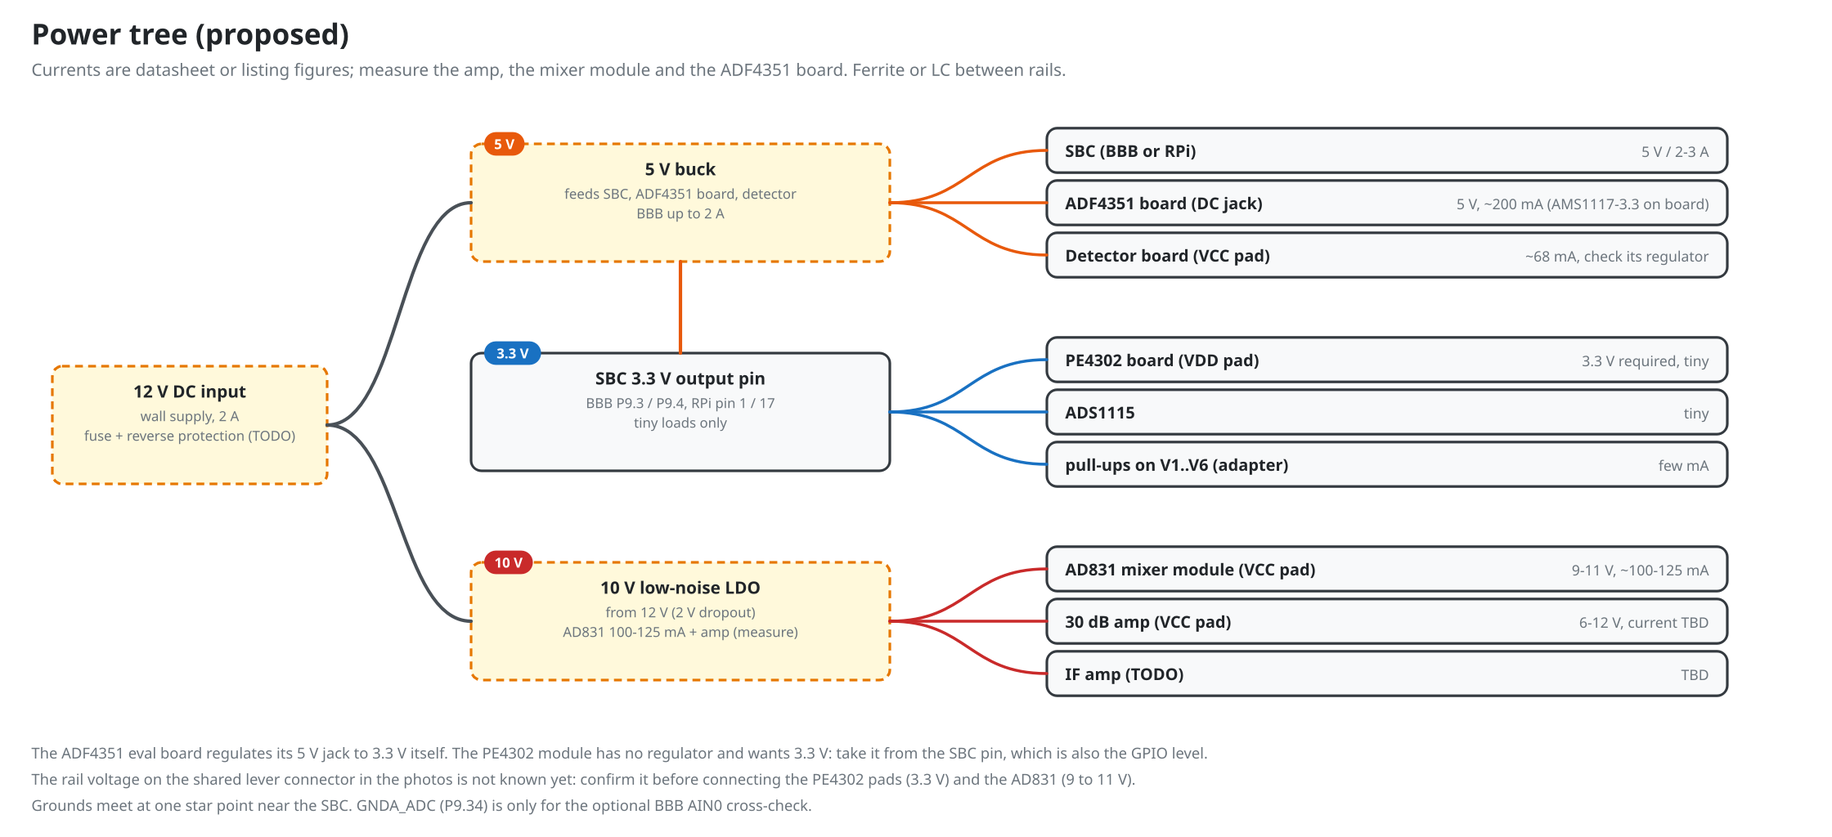
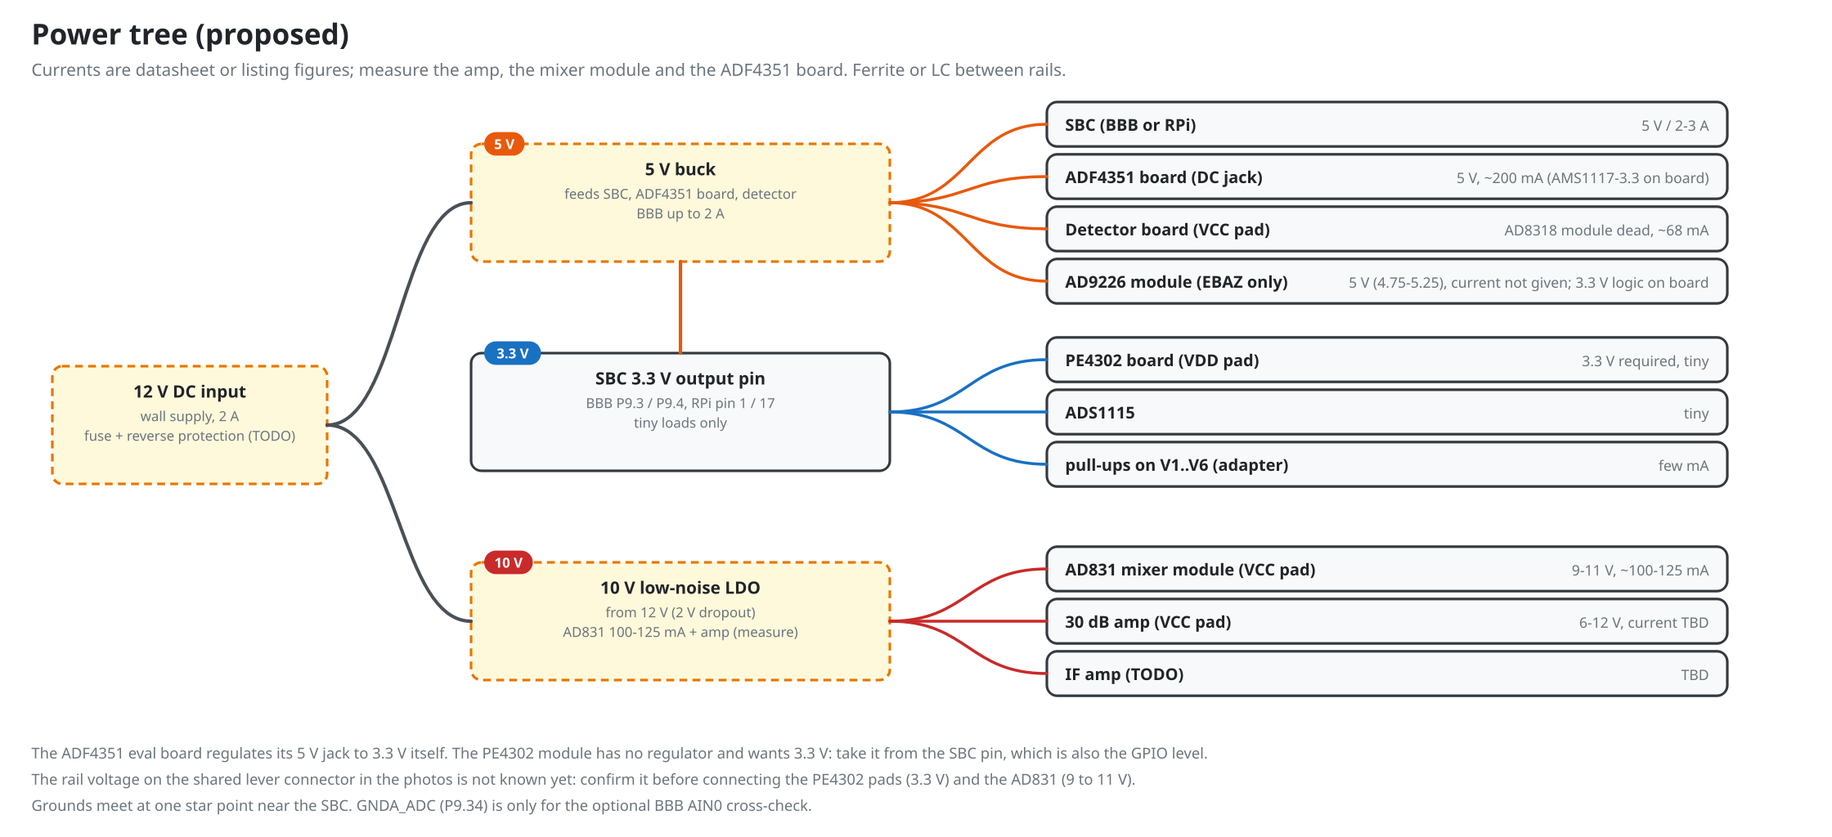
seam: hardware docs and diagrams: digital IF branch (2 x 30 MHz LPF, AD9226 module), detector dead
The detector module is dead and no replacement is bought; on the EBAZ4205 the
IF is digitized by the AD9226 module (50 MS/s) behind two 30 MHz low-pass
modules in series. gen_diagrams.py now draws that branch (rf-chain,
board-hierarchy, power-tree regenerated). hw/hierarchy, todo-parts, wiring,
as-built, README and detector page follow; new hw/boards/ad9226-module.md.
Plan appendix E and the pinmap HDMI proposal are marked superseded.

Changed region(s): [[0.5, 0.0938, 0.9375, 0.375]]

diff --git a/tools/gen_diagrams.py b/tools/gen_diagrams.py
@@ -595,21 +595,23 @@ def hierarchy(path: Path) -> None:
     svg.label(700, 208, "Ethernet / ZeroMQ: PUB 5556 (sweeps + log), REP 5557", color=n)
     cy, ch, cw = 450, 84, 300
     kids = [
-        (110, "PE4302 board", "6-bit attenuator, parallel control\n6 GPIO lines V1..V6", "gpio", "GPIO x6", "v33", "3.3 V"),
-        (550, "ADF4351 board", "LO synthesizer (eval board, 25 MHz osc.)\nSPI + lock-detect GPIO", "spi", "SPI + LD", "v5", "5 V jack"),
-        (990, "Detector board", "log detector, analog out\nvia RC + clamp to the ADS1115", "analog", "analog in", "v5", "5 V"),
+        (30, "PE4302 board", "6-bit attenuator, parallel control\n6 GPIO lines V1..V6", "gpio", "GPIO x6", "v33", "3.3 V"),
+        (365, "ADF4351 board", "LO synthesizer (eval board, 25 MHz osc.)\nSPI + lock-detect GPIO", "spi", "SPI + LD", "v5", "5 V jack"),
+        (700, "Detector board (AD8318: dead)", "log detector, analog out via RC + clamp\nto the ADS1115; not replaced", "analog", "analog in", "v5", "5 V"),
+        (1035, "AD9226 module (EBAZ PL only)", "12 bit ADC, 50 MS/s used, 50 ohm SMA in\n12 data + OTR in, clock out (DATA1)", "gpio", "DATA1 x14", "v5", "5 V"),
     ]
     for x, t, s_, kind, lab, rail, rtxt in kids:
         box(svg, x, cy, cw, ch, t, s_, badge=(rtxt, rail))
         c = PAL[kind][0]
-        wire(svg, (700, 334), (x + cw / 2, cy), c, lab, arrow_end=(kind != "analog"), arrow_start=(kind == "analog"))
+        wire(svg, (700, 334), (x + cw / 2, cy), c, lab, arrow_end=(kind != "analog" and "AD9226" not in t),
+             arrow_start=(kind == "analog" or "AD9226" in t))
     svg.text(24, 568, "ADF4351 board: 5 V on its DC jack, regulated to 3.3 V on the board (AMS1117-3.3). Check the polarity marking next to the jack.",
              size=11, fill=MUTED)
     svg.rect(40, 600, 1320, 160, fill="#f8f9fa", stroke="#adb5bd", sw=1.5, rx=10, dash="2 4")
     svg.text(56, 624, "RF-only boards: no link to the SBC (signal chain in rf-chain.svg)", size=13, weight="bold", fill=MUTED)
     items = [("30 dB amp", "module", False, ("6-12 V", "v10")), ("AD831 mixer", "module", False, ("9-11 V", "v10")),
              ("500 MHz LPF", "TODO", True, None), ("LO LPF + pad", "TODO", True, None),
-             ("10.7 MHz IF filter", "TODO", True, None), ("IF amp", "TODO", True, ("TBD", "v10"))]
+             ("IF low-pass 30 MHz x2", "7th order, SMA, in series", True, None), ("IF amp", "only if needed", True, ("TBD", "v10"))]
     x = 56
     for t, s_, todo, bd in items:
         box(svg, x, 652, 200, 80, t, s_, todo=todo, badge=bd)
@@ -618,8 +620,8 @@ def hierarchy(path: Path) -> None:
 
 
 def rf_chain(path: Path) -> None:
-    svg = Svg(1480, 640, "RF signal chain",
-              "Nominal gains are estimates; amp figures are seller claims. Levels in dBm refer to the analyzer input.")
+    svg = Svg(1480, 800, "RF signal chain",
+              "Nominal gains are estimates; amp figures are seller claims. Levels in dBm refer to the analyzer input. Top branch: analog detector (AD8318 module dead, not replaced); bottom branch: digital IF (AD9226).")
     n = PAL["net"][0]
     bw, bh, gap = 170, 72, 46
     x0 = 40
@@ -645,7 +647,7 @@ def rf_chain(path: Path) -> None:
     iy = 430
     chain = [("10.7 MHz IF filter", "ceramic 150-280 kHz\n(sets RBW), -6 dB", True, None),
              ("IF amp", "+15..20 dB, variable", True, None),
-             ("Detector", "-58..-1 dBm window\n-24.5 mV/dB", False, None),
+             ("Detector (AD8318)", "module dead, not replaced\n-58..-1 dBm, -24.5 mV/dB", False, None),
              ("RC + clamp", "adapter: 1k, 100 nF, clamp", False, None),
              ("ADS1115", "I2C 0x48, main ADC\n(BBB AIN0: cross-check)", False, ("analog", "analog"))]
     for i, (t, s_, todo, bd) in enumerate(chain):
@@ -657,8 +659,21 @@ def rf_chain(path: Path) -> None:
     svg.path(f"M{mx},{ry + bh + 8} L{mx},{iy - 40} L{bx(0) + bw / 2},{iy - 40} L{bx(0) + bw / 2},{iy}", n, 2.4,
              arrow_end=True)
     svg.label(mx - 330, iy - 40, "IF = 10.7 MHz (LO = RF + 10.7 MHz)", color=n)
-    svg.text(24, 580, "Gain budget at 0 dB attenuation: -1.5 (PE4302) -1.5 (LPF) +31 (amp) 0 (mixer) -6 (IF filter) = about 22 dB to the detector, before the IF amp.", size=11.5, fill=MUTED)
-    svg.text(24, 600, "Low IF gives an image 21.4 MHz above each RF; every tone appears twice. The amp compresses near -19.5 dBm at the input with 0 dB attenuation.", size=11.5, fill=MUTED)
+    dy = 590
+    dchain = [("IF low-pass x2", "30 MHz, 7th order Cheb.\n50 ohm SMA, 1-2 dB each", True, None),
+              ("AD9226 module", "12 bit, 50 MS/s, 50 ohm in\n10 Vpp = +24 dBm full scale", False, ("DATA1", "gpio")),
+              ("adc_fe (PL)", "clock, capture, OTR\ntie-off / traffic gen / pins", False, None),
+              ("IF path (PL)", "NCO, mixer, CIC by R\nI^2 + Q^2 = digital RBW", False, None),
+              ("Result memory", "4096 points -> sweepd\n(register map 1.3)", False, None)]
+    for i, (t, s_, todo, bd) in enumerate(dchain):
+        box(svg, bx(i), dy, bw, bh + 8, t, s_, todo=todo, badge=bd)
+        if i < len(dchain) - 1:
+            svg.path(f"M{bx(i) + bw},{dy + 40} L{bx(i + 1)},{dy + 40}", PAL["gpio"][0] if i == 1 else n, 2.4, arrow_end=True)
+    svg.path(f"M{mx},{iy - 40} L{mx},{dy - 40} L{bx(0) + bw / 2},{dy - 40} L{bx(0) + bw / 2},{dy}", n, 2.4, arrow_end=True)
+    svg.label(mx - 330, dy - 40, "digital IF branch: fs = 50 MS/s", color=n)
+    svg.text(24, 700, "Gain budget at 0 dB attenuation: -1.5 (PE4302) -1.5 (LPF) +31 (amp) 0 (mixer) -6 (IF filter) = about 22 dB to the detector, before the IF amp.", size=11.5, fill=MUTED)
+    svg.text(24, 720, "Digital branch: -1.5 -1.5 +31 0 -1.5 (IF low-pass) = about 26 dB to the module, so the +24 dBm full scale is about -2 dBm at the input; the fold of fs - 10.7 MHz needs two 30 MHz low-pass modules at 50 MS/s (about 62 dB).", size=11.5, fill=MUTED)
+    svg.text(24, 740, "Low IF gives an image 21.4 MHz above each RF; every tone appears twice. The amp compresses near -19.5 dBm at the input with 0 dB attenuation.", size=11.5, fill=MUTED)
     svg.save(path)
 
 
@@ -671,7 +686,8 @@ def power_tree(path: Path) -> None:
         ("v5", "5 V buck", "feeds SBC, ADF4351 board, detector\nBBB up to 2 A", "12V", True,
          [("SBC (BBB or RPi)", "5 V / 2-3 A"),
           ("ADF4351 board (DC jack)", "5 V, ~200 mA (AMS1117-3.3 on board)"),
-          ("Detector board (VCC pad)", "~68 mA, check its regulator")]),
+          ("Detector board (VCC pad)", "AD8318 module dead, ~68 mA"),
+          ("AD9226 module (EBAZ only)", "5 V (4.75-5.25), current not given; 3.3 V logic on board")]),
         ("v33", "SBC 3.3 V output pin", "BBB P9.3 / P9.4, RPi pin 1 / 17\ntiny loads only", "5V", False,
          [("PE4302 board (VDD pad)", "3.3 V required, tiny"),
           ("ADS1115", "tiny"),

diff --git a/hw/hierarchy.md b/hw/hierarchy.md
@@ -11,12 +11,15 @@ Generated diagrams (source: `tools/gen_diagrams.py`). Dashed orange boxes are pa
 | Viewer PC | SBC | Ethernet, ZeroMQ: PUB 5556, REP 5557 | both | n/a |
 | SBC | PE4302 board | 6 GPIO lines V1..V6 on P8 / RPi header (parallel control, the module has no serial interface) | SBC to board | 3.3 V |
 | SBC | ADF4351 board | SPI (CLK, DAT, LE) + LD GPIO | SBC to board, LD back | 5 V on the DC jack (3.3 V regulated on the board) |
-| Detector board | SBC | analog voltage through the adapter's RC + clamp to the ADS1115 (and a divider to the BBB AIN0 cross-check) | board to SBC | 5 V |
-| (no link) | 30 dB amp, AD831 mixer, 500 MHz LPF, LO LPF + pad, 10.7 MHz IF filter, IF amp | RF only | n/a | 10 V for amp, mixer and IF amp (check each) |
+| Detector board (AD8318) | SBC | analog voltage through the adapter's RC + clamp to the ADS1115 (and a divider to the BBB AIN0 cross-check). **The module is dead and not replaced** (user decision 2026-11-23: no log detector is bought) | board to SBC | 5 V |
+| AD9226 module (EBAZ4205 only) | PL sweep engine | 12 data lines + OTR in, sample clock out: 14 signals on DATA1 (adapter v2; the pins are not built into the default bitstream, see `../zynq-ebaz/docs/adc-module.md`) | module to PL, clock to module | 5 V (3.3 V logic made on the module) |
+| (no link) | 30 dB amp, AD831 mixer, 500 MHz LPF, LO LPF + pad, 2 x 30 MHz IF low-pass, IF amp (only if needed) | RF only | n/a | 10 V for amp, mixer and IF amp (check each) |
 
 ## RF signal chain
 
 ![RF chain](diagrams/rf-chain.png)
+
+The diagram has two ends after the mixer. The analog branch (IF filter, IF amp, log detector, ADS1115) is the original plan; its detector module is dead and no replacement is bought. The digital IF branch is the way forward on the EBAZ4205: two 30 MHz low-pass modules in series (the only filter option on offer, 7th order Chebyshev, SMA, in series about 62 dB at the alias band at 50 MS/s), then the AD9226 module (12 bit, up to 65 MS/s, sampled at 50 MS/s), then the PL: `adc_fe`, the IF path (digital down-conversion at 10.7 MHz, CIC filter sets the RBW) and the result memory. Details, level plan and open points: [../zynq-ebaz/docs/adc-module.md](../zynq-ebaz/docs/adc-module.md). The BBB has no PL: it cannot use the digital branch.
 
 Frequency plan: IF = 10.7 MHz, LO = RF + 10.7 MHz, RF about 25 to 489 MHz by hardware (ADF4351 minimum, AD831 LO maximum); the software default is 30 to 480 MHz (`config/default.toml`). The gain figures are estimates and the amp numbers are seller claims; replace them with measurements (`docs/bringup.md`).
 
@@ -24,9 +27,9 @@ Frequency plan: IF = 10.7 MHz, LO = RF + 10.7 MHz, RF about 25 to 489 MHz by har
 
 ![Power tree](diagrams/power-tree.png)
 
-- One 12 V input. 5 V buck for the SBC, the ADF4351 board (its DC jack, regulated on the board) and the detector; 10 V low-noise LDO for the AD831 module, the amp and the IF amp. The PE4302 and ADS1115 take 3.3 V from the SBC's 3V3 pin (P9.3), tiny loads only.
+- One 12 V input. 5 V buck for the SBC, the ADF4351 board (its DC jack, regulated on the board), the AD9226 module (EBAZ4205 only) and, if it is ever repaired or replaced, the detector; 10 V low-noise LDO for the AD831 module, the amp and the IF amp. The PE4302 and ADS1115 take 3.3 V from the SBC's 3V3 pin (P9.3), tiny loads only.
 - Ferrite or LC filter between rails; ground at one star point near the SBC.
-- Currents on the diagram are datasheet or listing figures. Measure the amp and the ADF4351 board.
+- Currents on the diagram are datasheet or listing figures. Measure the amp, the ADF4351 board and the AD9226 module (the listing gives no current).
 
 ## Files
 

diff --git a/hw/todo-parts.md b/hw/todo-parts.md
@@ -1,9 +1,10 @@
 # Parts still missing, in priority order
 
-1. **IF stage**: 10.7 MHz ceramic filter (about 150 to 280 kHz, first RBW), optional crystal filter for narrow RBW, and about 15 to 20 dB IF gain (ideally variable). Without it the detector sees the whole IF passband and there is no RBW.
+1. **IF stage, digital branch (EBAZ4205 PL engine)**. Decided 2026-11-23: no log detector and no ceramic filter. The IF goes through **two 30 MHz low-pass modules in series** (7th order Chebyshev, SMA; the only low-pass option on offer) into an **AD9226 module** (12 bit, 65 MS/s, ordered; sampled at 50 MS/s). The RBW is set digitally in the PL (CIC filter after the 10.7 MHz down-conversion), so no IF filter for it is needed. To buy or build: the two low-pass modules, an SMA-SMA adapter between them, and the **adapter v2** that wires the 14 DATA1 signals to the module (no HDMI, no LCD on those balls). Optional upgrade: a home-made 3 MHz bandpass at 10.7 MHz. An IF amp is only needed if the measured level asks for it (about 26 dB chain gain puts full scale at about -2 dBm at the RF input). The AD8310 is **not** bought. Record: [../zynq-ebaz/docs/adc-module.md](../zynq-ebaz/docs/adc-module.md).
+   **BBB path (analog, unchanged plan):** 10.7 MHz ceramic filter (about 150 to 280 kHz), optional crystal filter, 15 to 20 dB IF gain, and a log detector. The AD8318 module that was built in is dead, a replacement is not bought; the BBB path has no detector until one is.
 2. **Input low-pass filter, about 500 MHz**, between the PE4302 and the amp. The amp is wideband to 2 GHz and would otherwise compress on strong FM, DAB, GSM and LTE signals.
 3. **LO low-pass filter + 3 to 6 dB pad** on the ADF4351 output. LO drive should be -10 dBm; the synthesizer minimum is -4 dBm and its harmonics are only 10 to 20 dB down.
-4. **ADC handling**: done on the adapter board (RC + clamp to the ADS1115 A0, and a divider so the detector output cannot exceed 1.8 V at the optional BBB AIN0 cross-check). The ADS1115 module itself is the main ADC.
+4. **ADC handling**: done on the adapter board (RC + clamp to the ADS1115 A0, and a divider so the detector output cannot exceed 1.8 V at the optional BBB AIN0 cross-check). The ADS1115 module itself is the main ADC of the analog path; with the dead detector it has nothing to read until a detector exists. The AD9226 module is the digitizer of the digital IF branch (item 1).
 5. **DC block + ESD protection or limiter** at the RF input.
 6. **Power**: 12 V input, 5 V buck (also for the ADF4351 board's DC jack), 10 V rail for AD831 and amp, ferrites between rails. The PE4302 and ADS1115 take 3.3 V from the SBC pin.
 7. **Shielded enclosure**, SMA cables, 50 ohm terminations.

diff --git a/hw/boards/ad9226-module.md b/hw/boards/ad9226-module.md
@@ -1,0 +1,31 @@
+# AD9226 module and IF low-pass modules (digital IF branch, EBAZ4205 only)
+
+Facts from the seller's listing ("AD9226_01"); nothing is measured yet. **check** marks what the bench has to settle. The full record (level plan, anti-alias analysis, adapter v2 requirements, what is built in the PL) is [../../zynq-ebaz/docs/adc-module.md](../../zynq-ebaz/docs/adc-module.md); pictures are in `../../zynq-ebaz/docs/adc-module/`.
+
+## AD9226 module
+
+| Item | Value |
+|---|---|
+| ADC | AD9226, 12 bit, 65 MSPS maximum, parallel: D0..D11 + OTR (over-range) |
+| Input | 1 channel, SMA (and an XH2.54 socket), 50 ohm, 10 Vpp full scale (about +24 dBm); real input attenuation **check** |
+| Bandwidth | -3 dB at 320 MHz |
+| Reference | internal 2 V |
+| Supply | 5 V (4.75 to 5.25 V); 3.3 V logic made on the module (3V3 net **check** with a DMM); current not given |
+| Clock | none on the module: the FPGA supplies it on the header's CLK pin |
+| Header | 2.54 mm: GND, +5 V, data, CLK; the labels are not legible on the photo. **Need the pin table** |
+| Coupling | not stated (AC or DC) **check** |
+| Size | 54 x 37 x 23 mm, 16 g |
+
+## Connection to the EBAZ4205
+
+14 signals on DATA1 (`adc_d[0..11]`, `adc_otr`, `adc_clk`; balls in `zynq-ebaz/rtl/vivado/pins.toml`), through the **adapter v2** (adapter v1 uses three of those balls for LEDs and other parts). The default bitstream has no ADC pins: the data lines are tied off inside the engine and a traffic generator tests the whole path; a build with `SADIY_ADC_PADS=1` adds the pins. The module is not on the BBB's pin map and is not in `netlist.md` yet.
+
+## IF low-pass modules
+
+Two modules in series, 30 MHz cutoff (the only option on offer): 7th order Chebyshev type I, 1 dB ripple, SMA, 50 ohm, insertion loss 1 to 2 dB typical (3 dB maximum), stopband up to 70 dB, 30 x 9 mm without connector, maximum input about 23 dBm. At 50 MS/s the alias band (fs - 10.7 MHz +- 1.5 MHz, 37.8 to 40.8 MHz) is attenuated by about 31 to 38 dB with one module and about 62 dB with two. Lower sample rates do not work with this filter.
+
+## Test points and checks
+
+- 5 V and 3V3 on the module with a DMM before the clock is connected.
+- Input: DC level at the SMA (coupling), mixer IF level with the scope, then the PL checks `./run.sh fe` (no module needed) and later with `FE_CFG.src = 2`.
+- Capture phase against the module: `FE_CFG.phase` is found on the bench.

diff --git a/README.md b/README.md
@@ -14,11 +14,19 @@ RF in -> DC block/ESD -> PE4302 -> 500 MHz LPF -> 30 dB amp -> AD831 mixer -> 10
 ADF4351 (LO = RF + 10.7 MHz) -> LPF + pad -----------------------+
 ```
 
-Built so far: PE4302, amp, AD831, detector and ADF4351. The missing stages are listed in priority order in [hw/todo-parts.md](hw/todo-parts.md).
+The log detector end of this chain is the original plan; the AD8318 module is dead and no replacement is bought. On the EBAZ4205 the IF is digitized instead:
+
+```
+AD831 IF out -> 30 MHz LPF module x2 (in series) -> AD9226 module (12 bit, 50 MS/s) -> PL: IF path (10.7 MHz down-conversion, CIC = RBW) -> PS -> sweepd
+```
+
+Facts and open points of the digital branch: [zynq-ebaz/docs/adc-module.md](zynq-ebaz/docs/adc-module.md). The BBB has no PL and cannot use it.
+
+Built so far: PE4302, amp, AD831, ADF4351 (the detector module is dead). Ordered: AD9226 module. The missing stages are listed in priority order in [hw/todo-parts.md](hw/todo-parts.md).
 
 - **Range:** 30 to 480 MHz by default (`config/default.toml`). The AD831 LO limit puts the ceiling at about 489 MHz.
 - **Image:** the low IF puts an image 21.4 MHz above each RF, so every signal also shows a copy 21.4 MHz lower on the sweep axis. The optional **Image reject** setting (two sweeps per trace with the LO on both sides, lower reading kept) removes it above about 45 MHz at twice the sweep time; tested in the simulator only.
-- **ADC:** an ADS1115 on I2C reads the detector. The BBB on-chip AIN0 stays wired as an optional cross-check.
+- **ADC:** an ADS1115 on I2C reads the detector (analog path; the detector is dead for now). The BBB on-chip AIN0 stays wired as an optional cross-check. On the EBAZ4205 the AD9226 module (parallel, 50 MS/s) feeds the PL IF path instead.
 
 ## Quick start (PC, no hardware)
 

diff --git a/hw/wiring.md b/hw/wiring.md
@@ -17,11 +17,13 @@ Keep every RF link a short coax (SMA), 50 ohm. Mark each cable with its name.
 | RF_4 | 30 dB amp out | AD831 RF in | |
 | LO_1 | ADF4351 RFOUT | LO LPF + pad (TODO) | unused output terminated in 50 ohm |
 | LO_2 | LO LPF + pad | AD831 LO in | about -10 dBm |
-| IF_1 | AD831 IF out | 10.7 MHz IF filter (TODO) | |
-| IF_2 | IF filter | IF amp (TODO) | |
-| IF_3 | IF amp | detector RF in | check the detector input coupling and 50 ohm termination |
-| DET | detector VOUT | RC + clamp (1k, 100 nF) on the adapter board | analog, short and away from the LO and RF cables |
-| ADC | RC + clamp | ADS1115 A0 (BBB: AIN0 too, through a divider, as a cross-check) |
+| IF_1 | AD831 IF out | IF low-pass 30 MHz, first module (TODO) | digital IF branch; check what load the AD831 IF port wants |
+| IF_2 | first low-pass | second low-pass (SMA-SMA adapter) | two modules in series: about 62 dB at the alias band at 50 MS/s |
+| IF_3 | second low-pass | AD9226 module SMA in (TODO) | 50 ohm, 10 Vpp full scale (about +24 dBm); coupling AC or DC not known yet |
+| ADC_BUS | AD9226 module header | adapter v2 (DATA1, 14 signals) | 12 data lines + OTR in, clock out; short cable, series resistors on the adapter (`../zynq-ebaz/docs/adc-module.md` section 4) |
+| IF_A | AD831 IF out | 10.7 MHz IF filter, IF amp, detector RF in | **analog branch, optional**: the AD8318 module is dead and not replaced |
+| DET | detector VOUT | RC + clamp (1k, 100 nF) on the adapter board | analog branch, only with a working detector; short and away from the LO and RF cables |
+| ADC | RC + clamp | ADS1115 A0 (BBB: AIN0 too, through a divider, as a cross-check) | analog branch |
 
 ## Practical rules
 

diff --git a/zynq-ebaz/docs/ebaz4205-zynq-plan.md b/zynq-ebaz/docs/ebaz4205-zynq-plan.md
@@ -268,7 +268,7 @@ Balls from the community pinout table. All LVCMOS33.
 
 ## Appendix E: ADC selection and LVDS notes (from v1)
 - Recommended: AD9226 module. 12 bit, 65 MSPS, parallel CMOS; datasheet SNR 69 dB @ 31 MHz, ENOB 11.1 @ 10 MHz; 5 V analog supply, 3 V or 5 V driver supply; pin-compatible family AD9220..AD9225. An EBAZ4205 project already uses it as a 0 to 32 MHz spectrum viewer (FPGA supplies the 64 MHz clock, 16384-sample frames, zoom DDCs from 10 MHz down to 10 kHz).
-- Check DRVDD = 3.3 V; the module attenuates its input by about 8.4 dB (one user modified it for gain).
+- Superseded 2026-11-23 by `adc-module.md`: the module is bought (AD9226_01, listing: 3.3 V logic, 50 ohm SMA, 10 Vpp full scale; DRVDD and the real input attenuation are still to check on the bench). The "about 8.4 dB" came from another project.
 - LVDS is not needed for a 10.7 MHz IF. On 3.3 V HR banks LVDS_25 works as an input only; on-chip DIFF_TERM needs a matching VCCO, so terminate with 100 ohm externally. TMDS_33 does not fit ADC LVDS outputs (needs about 2.7 to 3.23 V common mode). The FPGA cannot drive an LVDS sample clock here. Vivado may warn about LVDS_25 and LVCMOS33 in one bank (verify, test early).
 - No cheap LVDS ADC breakout found; known options are eval boards (TI ADS4122/ADS4222 class, ADI AD9253, Digilent Zmod) needing adapters, SYZYGY or FMC. A custom serial-LVDS board needs only a few pairs, but one lane at 12 bit x 65 MSPS is 780 Mb/s, probably near the HR-bank limit (verify in DS187); use two lanes or 40 MSPS.
 

diff --git a/hw/as-built.md b/hw/as-built.md
@@ -35,3 +35,10 @@ RF input cable -> PE4302 `RFin`; PE4302 `RFout` -> amp `RFin`; amp `RFout` -> AD
 3. Which ADF4351 output goes to the mixer and what the other output sees.
 4. Polarity marking next to the ADF4351 DC jack.
 5. Whether the ADF4351 board already pulls `CE` and `PDR` high.
+
+## Changes after the photos (2026-11-23)
+
+- **Detector module:** dead; no log detector is bought (AD8310 not ordered either). The analog branch (IF filter, IF amp, detector, ADS1115) has no detector until one is added. Everything above about the detector is kept as the record of the first photos.
+- **Mixer output:** looked at with a scope FFT (session L's bench notes); the AD831 IF port load is still an open question.
+- **Digitizer:** an AD9226 module (12 bit, 65 MS/s, 50 ohm SMA input) is ordered for the EBAZ4205 PL engine, with two 30 MHz low-pass modules in series in front of it. Facts from the seller's listing, nothing measured yet: [boards/ad9226-module.md](boards/ad9226-module.md).
+

diff --git a/zynq-ebaz/docs/pinmap.md b/zynq-ebaz/docs/pinmap.md
@@ -124,6 +124,8 @@ With this adapter the following planned `adc_*` balls are also wired to adapter 
 
 ### Proposal: AD9226 through the HDMI port
 
+**Superseded 2026-11-23:** the user plans a different adapter (adapter v2) without HDMI and LCD that wires the 14 DATA1 signals straight to the AD9226 module (`adc-module.md` section 4). This proposal is not needed any more; kept as a record.
+
 The HDMI port carries four differential pairs (DAT0, DAT1, DAT2, CLK) = 8 FPGA balls, exactly 8 of the 14 planned AD9226 balls. With the 5 free balls of the right connector that makes 13: 12 data bits and the clock; OTR needs one more (the UART header H16 once its jumper is removed, or leave it out). Used as single-ended LVCMOS33. A proposal only: NOT in `pins.toml` (the Linux lane owns that file) and not constrained; the adapter PCB will probably be replaced later, then the pins are chosen again.
 
 | AD9226 signal | Ball | Where | Bank | I/O name |

diff --git a/hw/README.md b/hw/README.md
@@ -27,7 +27,8 @@ Diagrams are in `diagrams/` (SVG and PNG), generated by `tools/gen_diagrams.py`.
 | PE4302 attenuator | `boards/pe4302.md` | 6 GPIO lines V1..V6 (parallel, no serial interface) |
 | 30 dB amp | `boards/amp.md` | none |
 | AD831 mixer | `boards/ad831.md` | none |
-| Detector | `boards/detector.md` | none (analog out to ADC) |
+| Detector (AD8318, dead, not replaced) | `boards/detector.md` | none (analog out to ADC) |
+| IF low-pass 30 MHz x2 + AD9226 module (EBAZ4205 PL only) | `boards/ad9226-module.md` | 14 signals on DATA1 (12 data, OTR, clock out), adapter v2 |
 | ADF4351 synthesizer | `boards/adf4351.md` | SPI + lock-detect GPIO |
 
 `power.md` is not written yet; the plan is in the power tree diagram.

diff --git a/hw/boards/detector.md b/hw/boards/detector.md
@@ -1,5 +1,7 @@
 # Log detector board (AD8318 class, 1 to 8000 MHz, 25 mV/dB)
 
+**Status 2026-11-23: the module is dead and is not replaced; no log detector is bought.** The EBAZ4205 digitizes the IF instead ([ad9226-module.md](ad9226-module.md)). The page stays as the record of the module and for a later replacement.
+
 | Item | Value |
 |---|---|
 | Part | AD8318 (confirm the marking on the board) |
